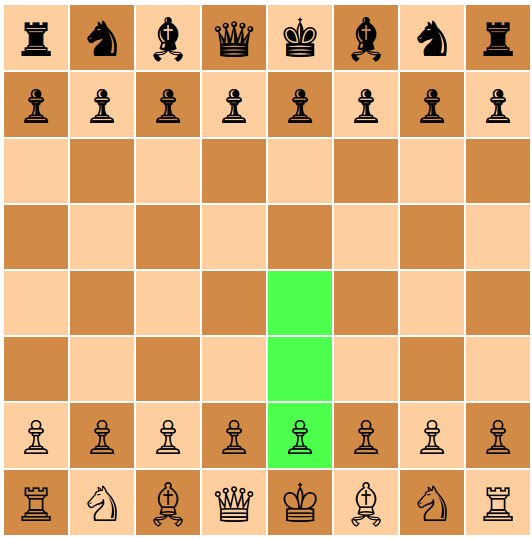
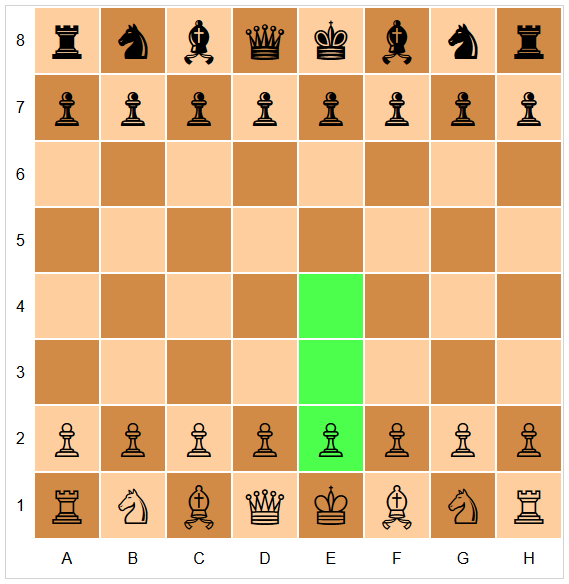
notation fields can be drawn/shown now

diff --git a/jquery.chessBoard.js b/jquery.chessBoard.js
@@ -127,6 +127,12 @@
                 _onResizeFunc();
                 ctx.field.resize(_onResizeFunc);
             },
+            'onPaintNotationField': function(ctx) {
+                ctx.field.css('overflow'      , 'hidden');
+                ctx.field.css('padding'       , '8px');
+                ctx.field.css('text-align'    , 'center');
+                ctx.field.css('vertical-align', 'middle');
+            },
             'onPaintPiece': function(ctx) {
                 ctx.piece.css('display'       , 'block');
                 ctx.piece.css('font-size'     , opts.pieceSize);
@@ -144,6 +150,10 @@
             },
             'pieceSize': '48px',
             'setStartPosition': false,
+            'showBottomNotation': true,
+            'showLeftNotation': true,
+            'showRightNotation': false,
+            'showTopNotation': false,
         }, opts);
         
         opts.pieces = $.extend({
@@ -178,13 +188,74 @@
                     }
                 };
             };
+            
+            var _addNotationRow = function(nrType) {
+                var newNotationRow = $('<tr></tr>');
+                newNotationRow.addClass('cbNotationRow');
+                newNotationRow.addClass('cbNotationRow' + nrType);
                 
+                for (var x = -1; x < 8; x++) {
+                    var cn = colNames.charAt(x);
+                    
+                    var newNotationField = $('<td></td>');
+                    newNotationField.addClass('cbNotationField');
+                    newNotationField.addClass('cbNotationField' + cn);
+                    newNotationField.addClass('cbNotationField' + cn + nrType);
+                    newNotationField.addClass('cbNotationField' + nrType);
+
+                    if (x > -1) {
+                        newNotationField.text(cn);
+                    }
+                    
+                    if (opts.onPaintNotationField) {
+                        opts.onPaintNotationField({
+                            field: newNotationField,
+                            pos: x,
+                            type: nrType.toUpperCase(),
+                        });
+                    }
+                    
+                    newNotationRow.append(newNotationField);
+                }
+                
+                tbl.append(newNotationRow);
+            };
+            
+            if (opts.showTopNotation) {
+                _addNotationRow('Top');
+            } 
+            
             for (var y = 0; y < 8; y++) {
                 var newRow = $('<tr></tr>');
                 newRow.addClass('cbRow');
                 newRow.addClass('cbRow' + (y % 2 == 0 ? 'Odd' : 'Even'));
                 newRow.addClass('cbRow' + rowNames.charAt(y));
                 
+                var _addNotationField = function(nrType) {
+                    var rn = rowNames.charAt(y);
+                
+                    var newNotationField = $('<td></td>');
+                    newNotationField.addClass('cbNotationField');
+                    newNotationField.addClass('cbNotationField' + rn);
+                    newNotationField.addClass('cbNotationField' + rn + nrType);
+                    newNotationField.addClass('cbNotationField' + nrType);
+                    newNotationField.text(rn);
+                    
+                    if (opts.onPaintNotationField) {
+                        opts.onPaintNotationField({
+                            field: newNotationField,
+                            pos: y,
+                            type: nrType,
+                        });
+                    }
+                    
+                    newRow.append(newNotationField);
+                };
+                
+                if (opts.showLeftNotation) {
+                    _addNotationField('Left');
+                } 
+
                 for (var x = 0; x < 8; x++) {
                     var fieldName = colNames.charAt(x) + rowNames.charAt(y);
                     
@@ -207,8 +278,16 @@
                     newField.appendTo(newRow);
                 }
                 
+                if (opts.showRightNotation) {
+                    _addNotationField('Right');
+                }
+                
                 tbl.append(newRow);
             }
+            
+            if (opts.showBottomNotation) {
+                _addNotationRow('Bottom');
+            } 
             
             if (opts.css) {
                 tbl.css(opts.css);

diff --git a/demo.html b/demo.html
@@ -16,6 +16,11 @@
                         alert(ctx.name);
                     },
                     
+                    'css': {
+                        'border': '1px solid lightgray',
+                        'fontFamily': 'Arial',
+                    },
+                    
                     'setStartPosition': true,
                 });
             });
